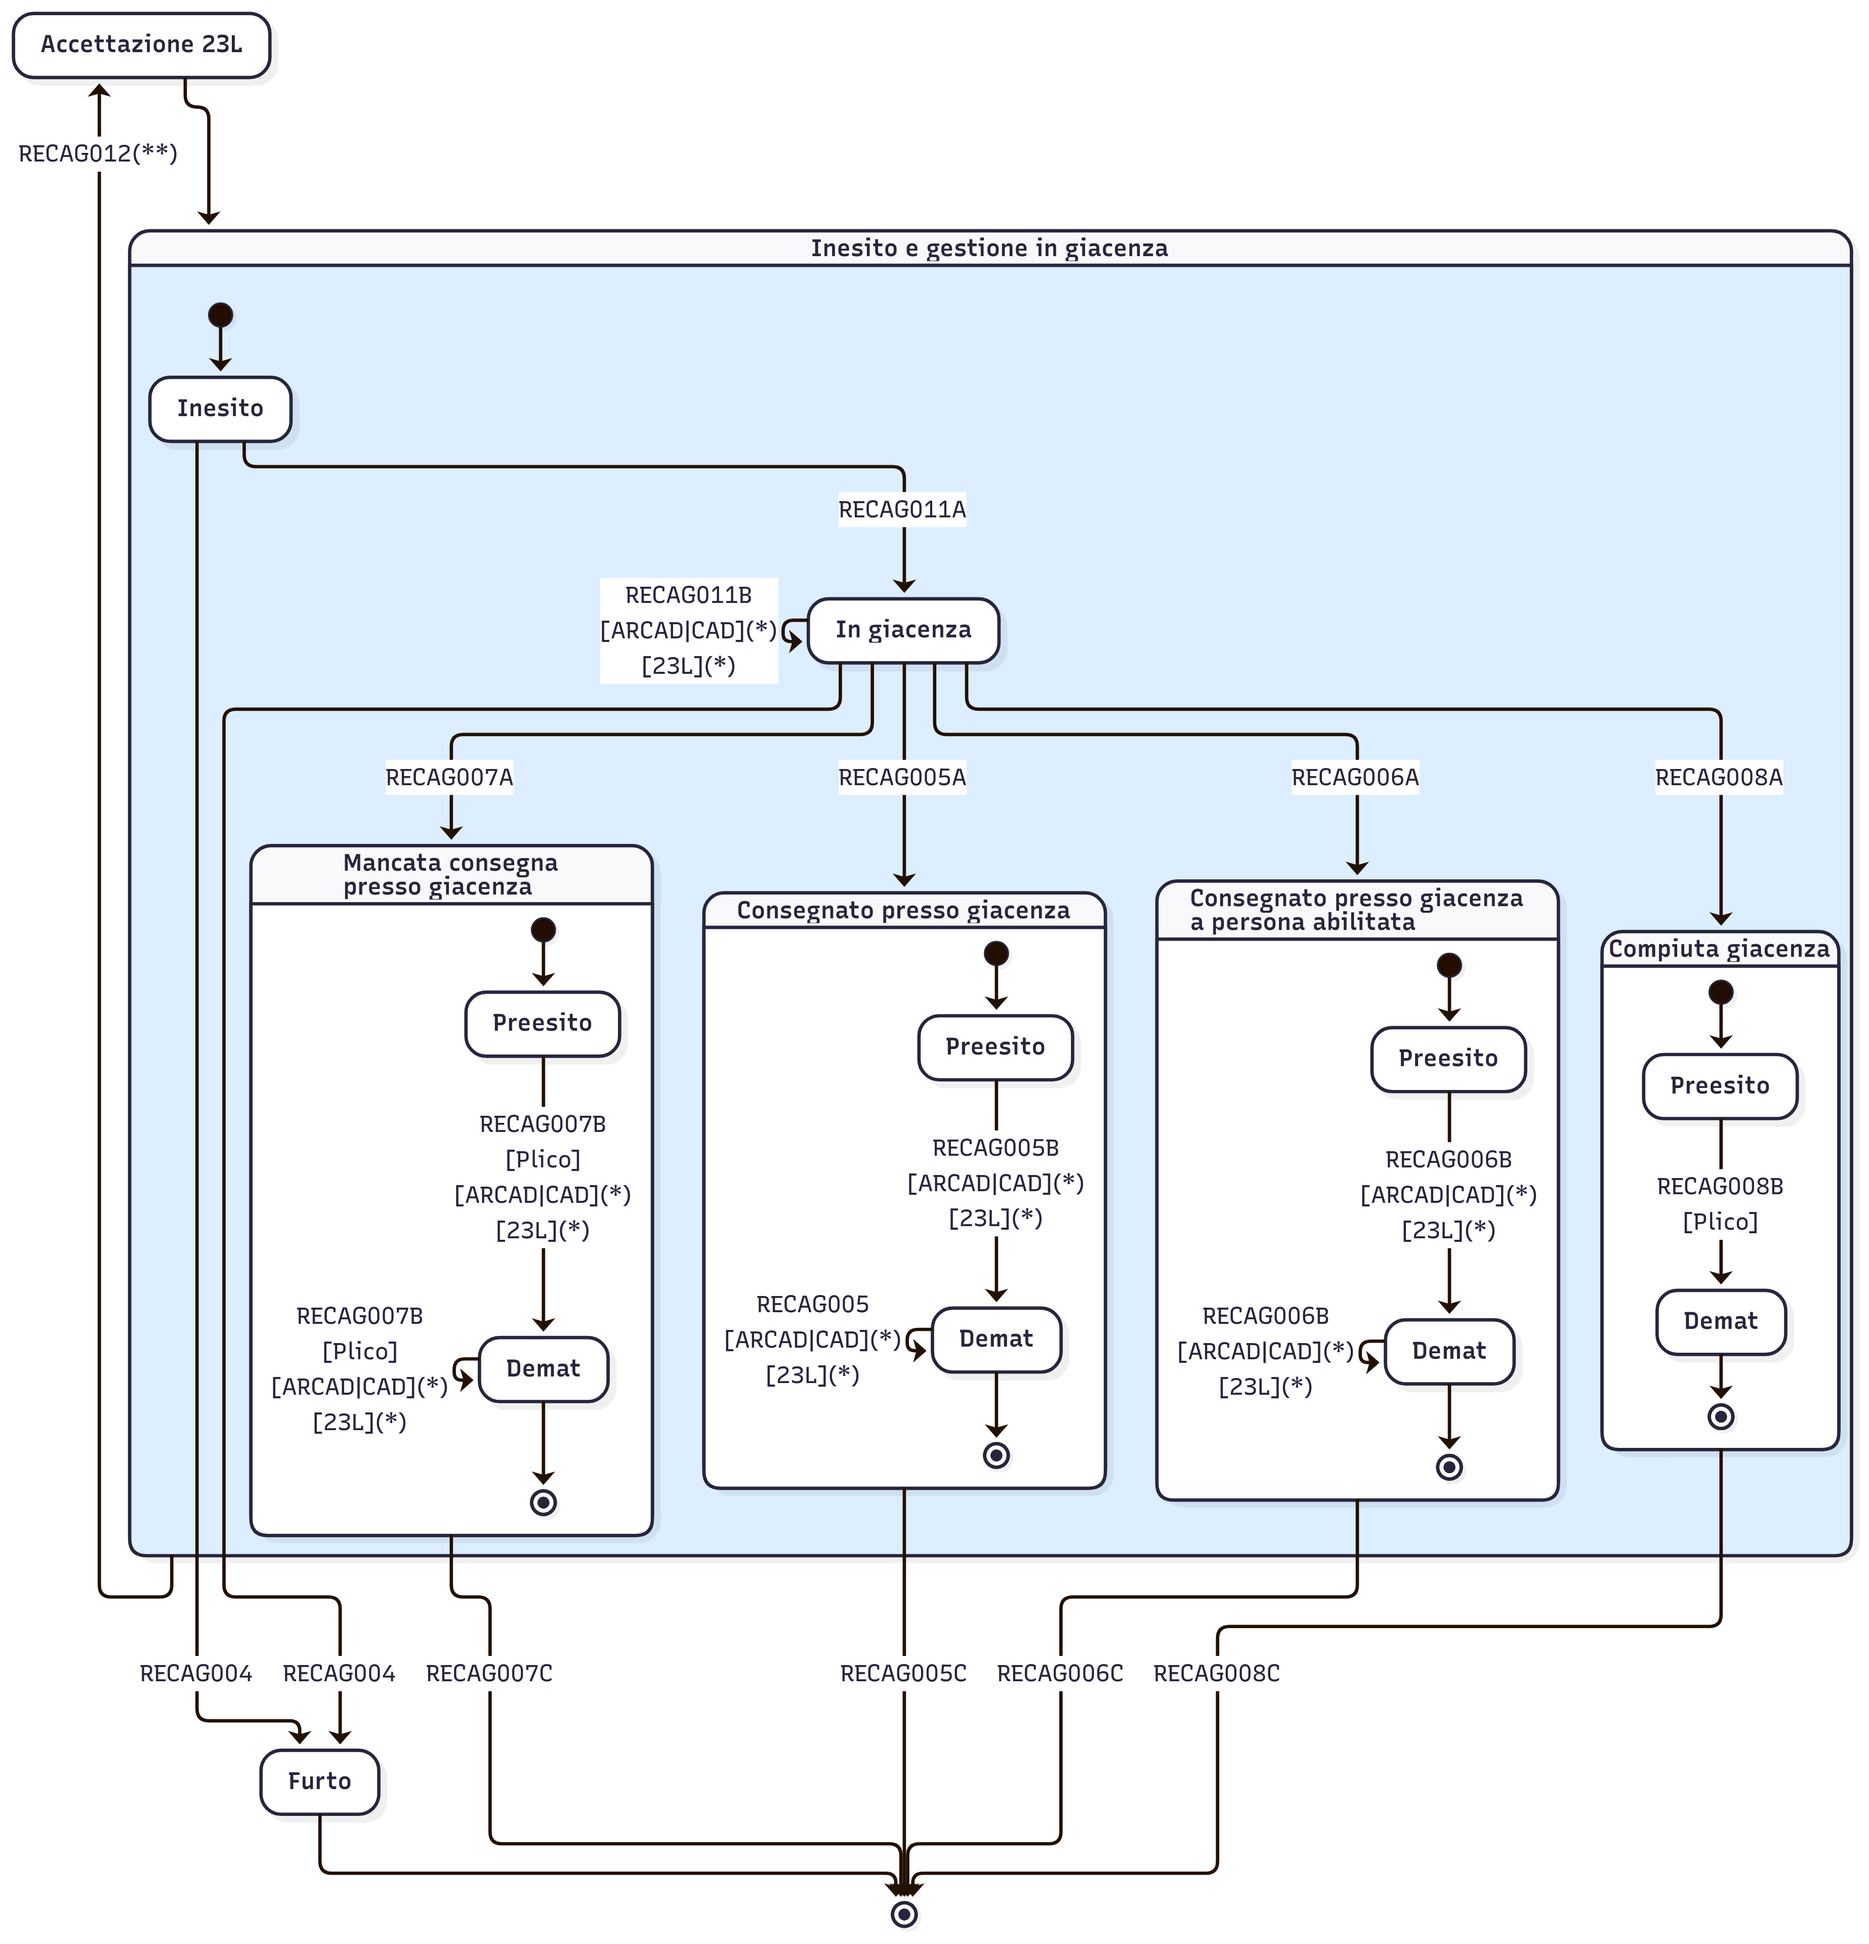
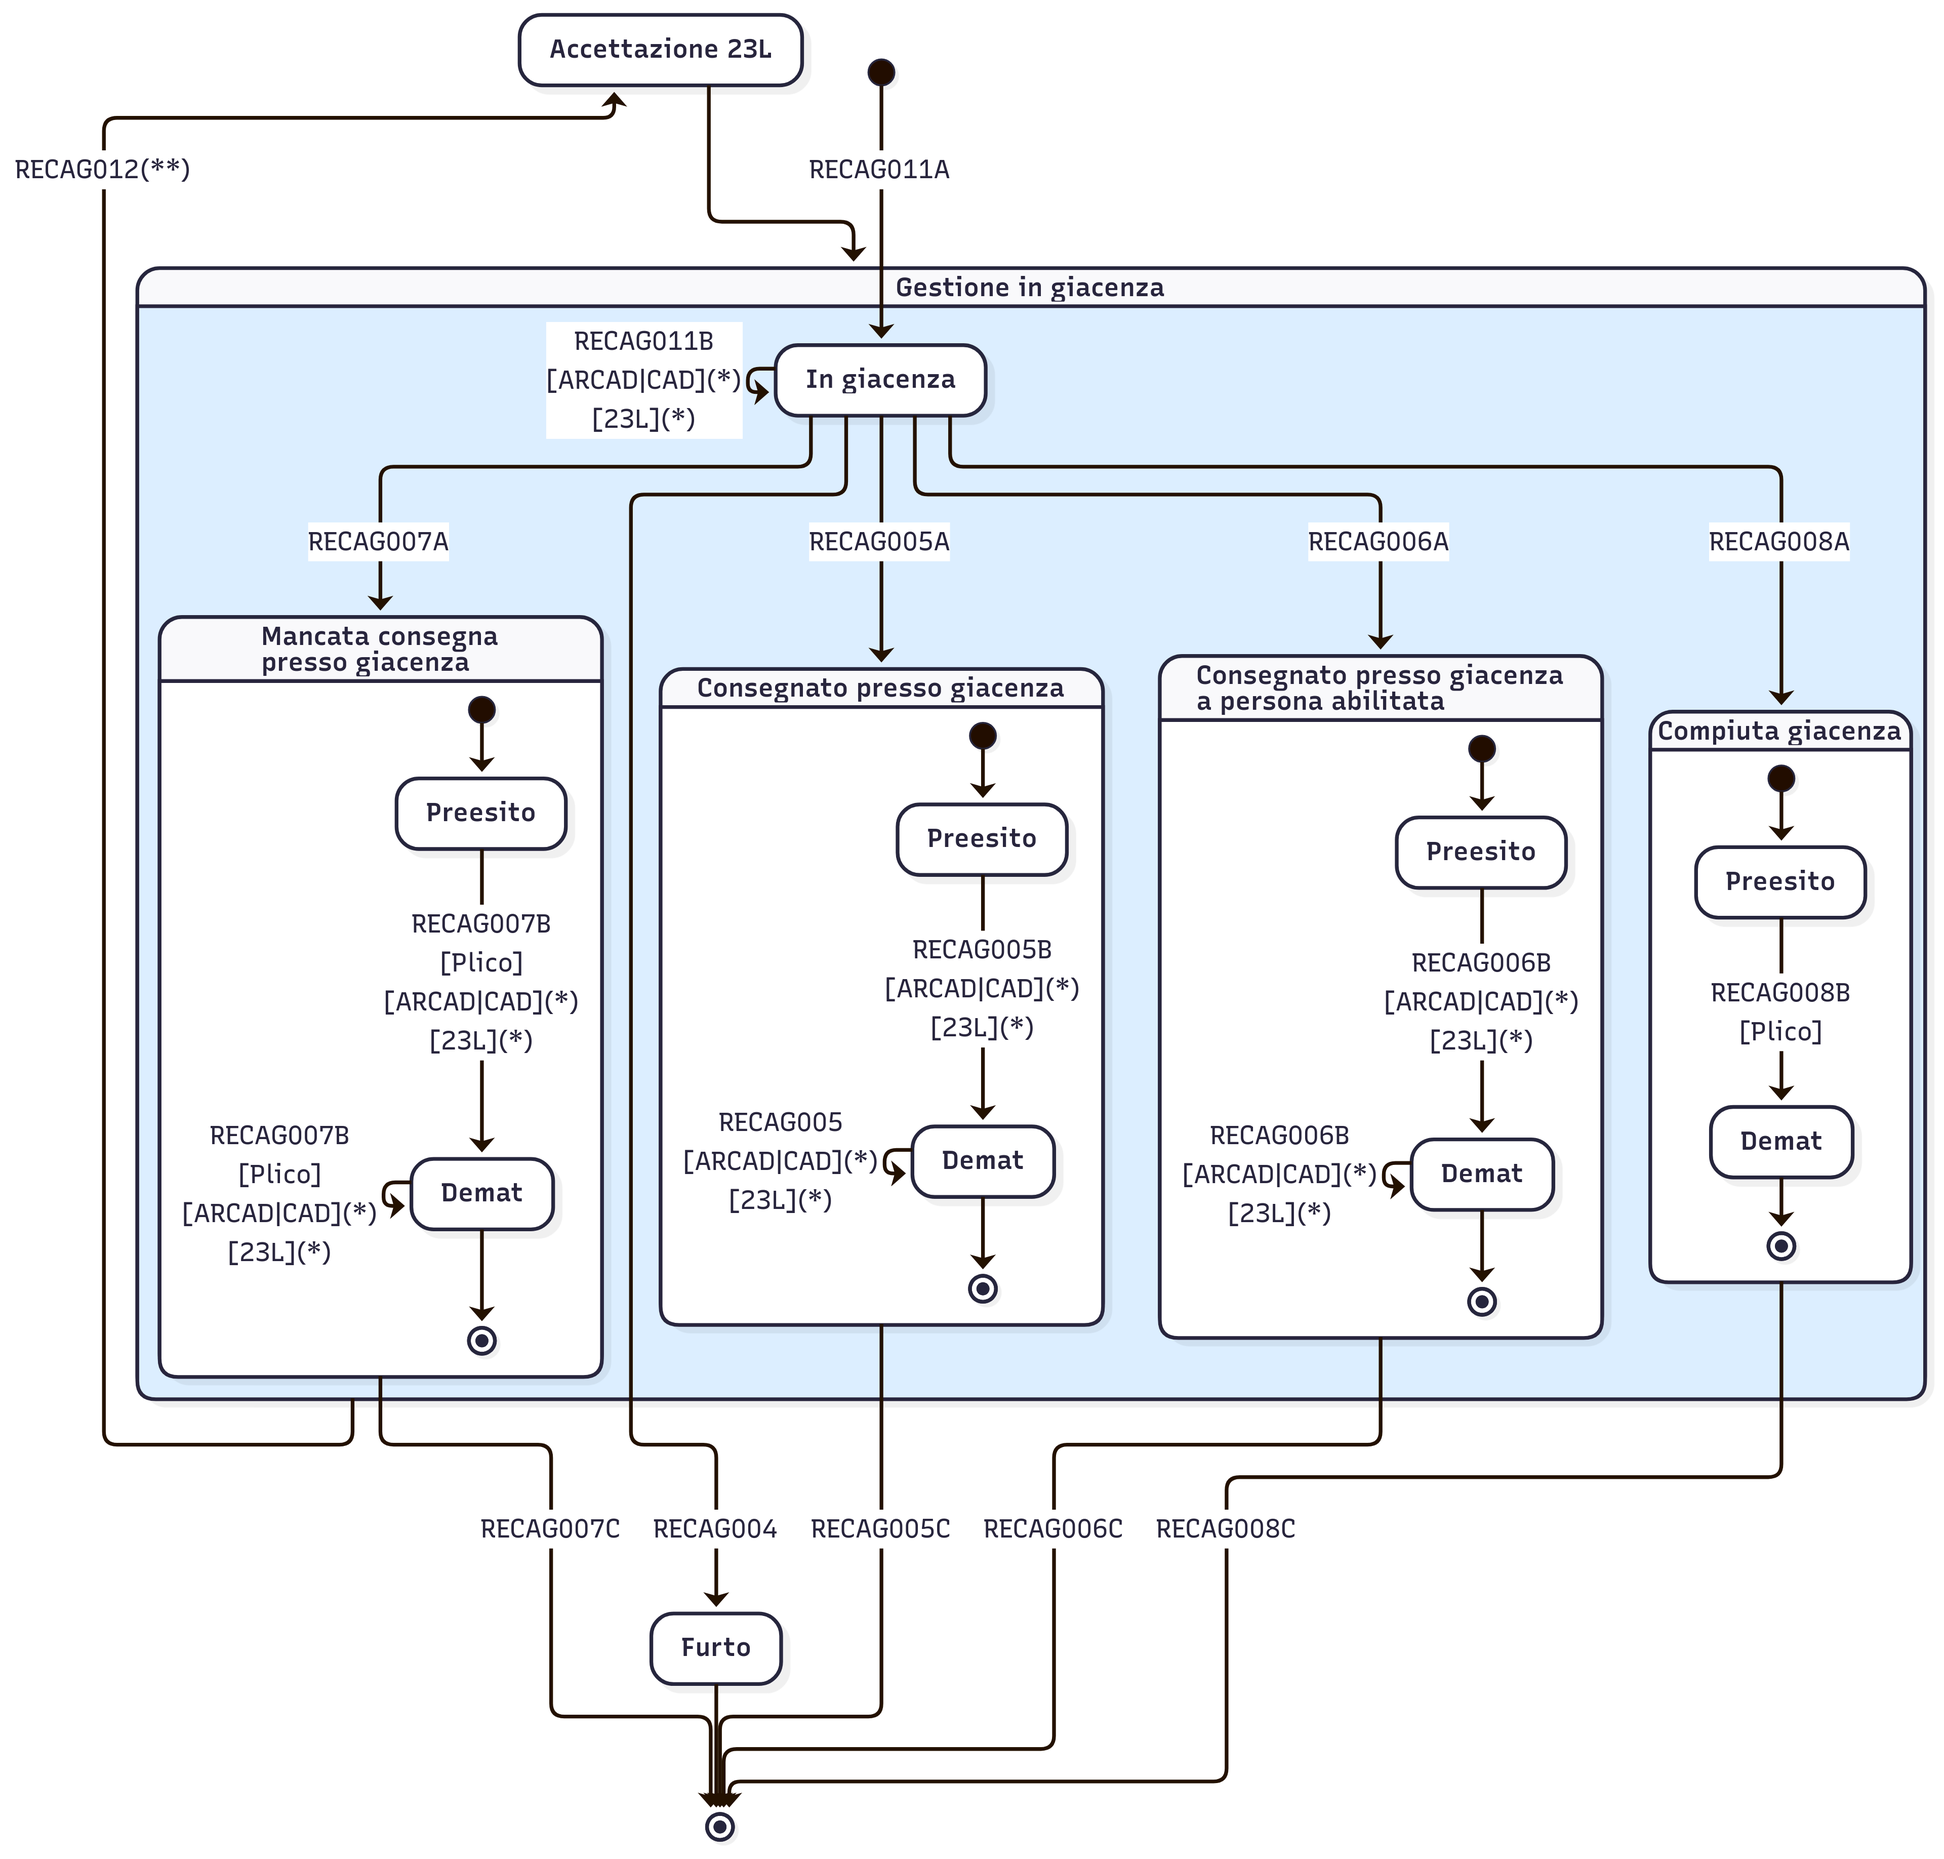
fix: update 890_2.png

diff --git a/docs/diagrams/890.md b/docs/diagrams/890.md
@@ -129,11 +129,10 @@ config:
 stateDiagram-v2
   GestioneGiacenza --> Accettazione23L: RECAG012(**)
   Accettazione23L --> GestioneGiacenza
-  
+  [*] --> InGiacenza: RECAG011A
+
   state GestioneGiacenza {
     direction TB
-    
-    [*] --> Inesito
 
     state ConsegnatoPressoGiacenza {
       direction TB
@@ -167,12 +166,10 @@ stateDiagram-v2
     InGiacenza --> MancataConsegnatoPressoGiacenza: RECAG007A
     InGiacenza --> ConsegnatoPressoGiacenzaPersonaAbilitata: RECAG006A
     InGiacenza --> ConsegnatoPressoGiacenza: RECAG005A
-    Inesito --> InGiacenza: RECAG011A
     InGiacenza-->InGiacenza: RECAG011B<br>[ARCAD|CAD]\(\*\)<br>[23L]\(\*\)
   }
 
   %% Furto
-  Inesito --> Furto: RECAG004
   InGiacenza --> Furto: RECAG004
   Furto --> [*]
   
@@ -183,9 +180,8 @@ stateDiagram-v2
   MancataConsegnatoPressoGiacenza --> [*]:RECAG007C
 
   %% Etichette
-  GestioneGiacenza: Inesito e gestione in giacenza
+  GestioneGiacenza: Gestione in giacenza
   InGiacenza: In giacenza
-  Inesito: Inesito
   Accettazione23L: Accettazione 23L
   ConsegnatoPressoGiacenza: Consegnato presso giacenza
   ConsegnatoPressoGiacenzaPersonaAbilitata: Consegnato presso giacenza<br>a persona abilitata
